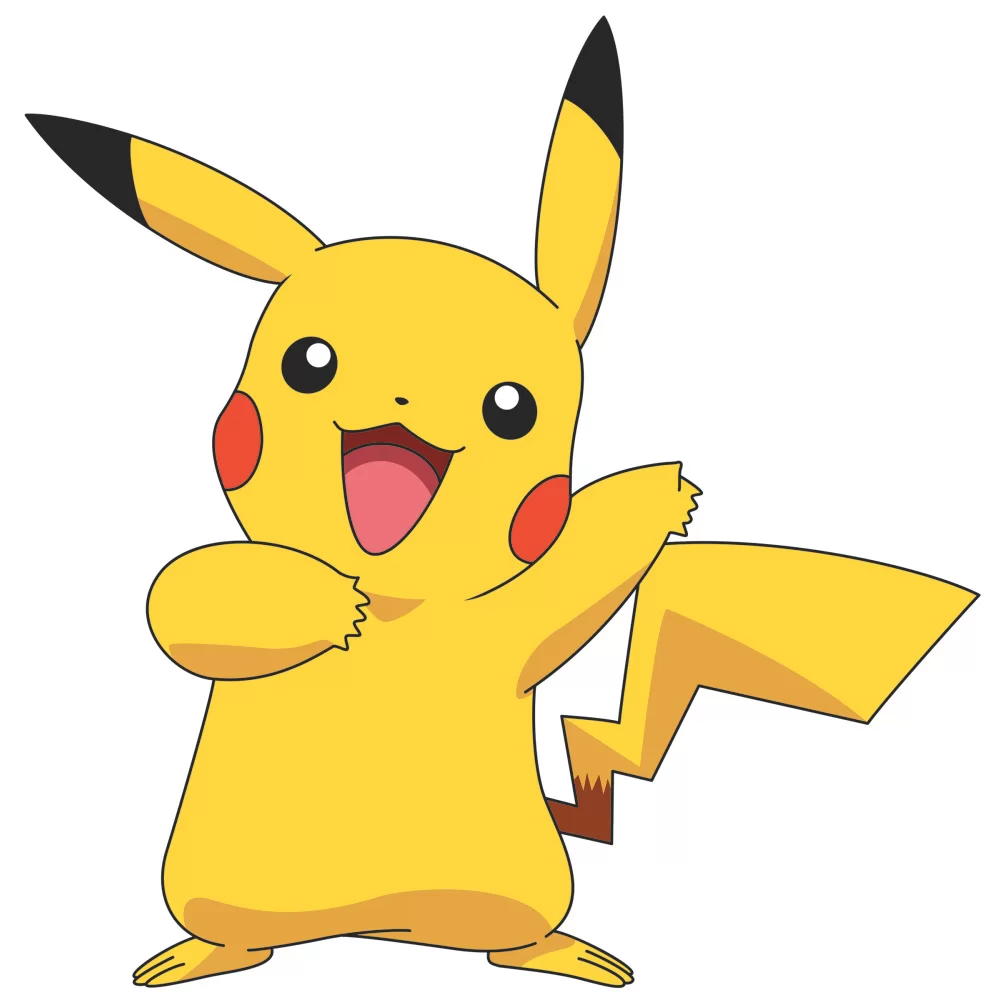
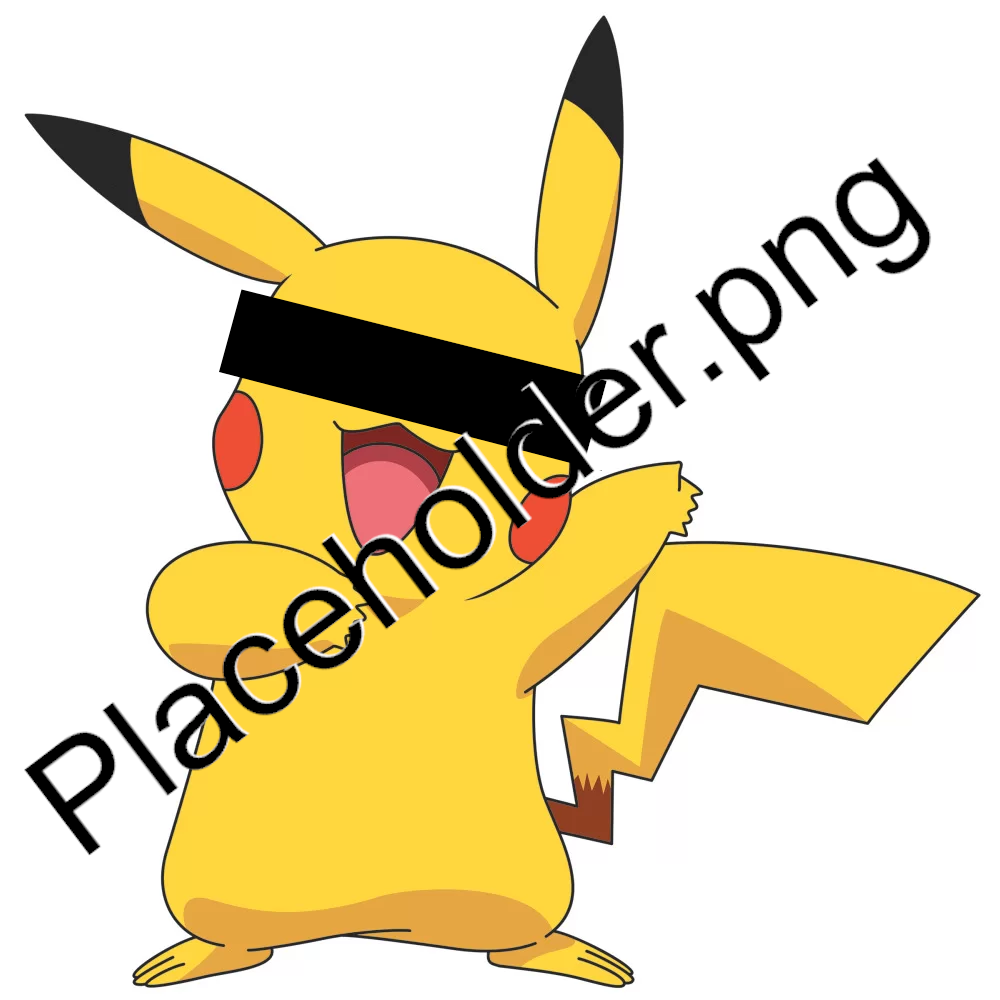
made a quick name change + changed our copywrited pikachu

Changed region(s): [[0.031, 0.279, 0.682, 0.868], [0.682, 0.155, 0.93, 0.403]]

diff --git a/Demo_4/mainrunnereditted.py b/Demo_4/mainrunnereditted.py
@@ -5,7 +5,7 @@ import sys
 import threading
 # imports for layout
 from menulayout import MainMenu
-from popup import Ui_CaptureData
+from popuplayout import Ui_CaptureData
 from finishedcapture import *
 # imports for functionality
 from capture_test import *
